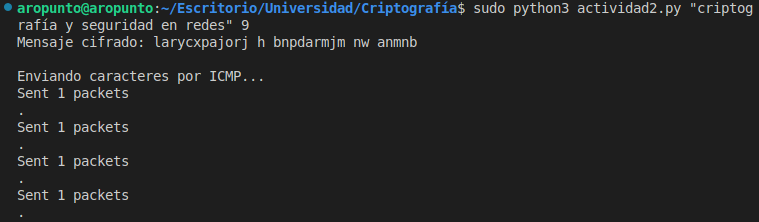
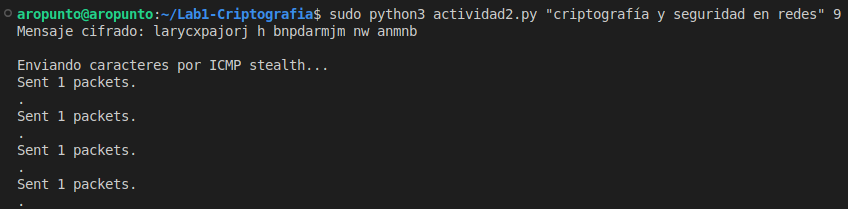
Arreglo de código e imagen

diff --git a/actividad2.py b/actividad2.py
@@ -1,29 +1,39 @@
 import sys
 import unicodedata
+import time
 from scapy.all import IP, ICMP, send
 
 def normalizar_texto(texto):
     texto = texto.lower()
     texto = unicodedata.normalize("NFD", texto)
-    texto = "".join(c for c in texto if unicodedata.category(c) != "Mn")
-    return texto
+    return "".join(c for c in texto if unicodedata.category(c) != "Mn")
 
 def cesar_cipher(texto, desplazamiento):
     resultado = ""
     for char in texto:
-        if char.isalpha():  # Solo letras
+        if char.isalpha():
             nueva_pos = (ord(char) - ord('a') + desplazamiento) % 26
             resultado += chr(nueva_pos + ord('a'))
         else:
-            resultado += char  # Mantener espacios
+            resultado += char
     return resultado
 
-def enviar_icmp_por_caracter(mensaje, destino="8.8.8.8"):
+def enviar_icmp_stealth(mensaje, destino="8.8.8.8"):
+    icmp_id = 0x1234   
+    seq = 0
     for char in mensaje:
-        paquete = IP(dst=destino)/ICMP()/char.encode()
+        payload = (
+            char.encode() +              # primer byte = char
+            b"\x00" * 8 +                # "8 primeros bytes" ICMP coherentes
+            bytes(range(0x10, 0x38))     # desde 0x10 a 0x37
+        )
+
+        paquete = IP(dst=destino)/ICMP(id=icmp_id, seq=seq)/payload
         send(paquete, verbose=0)
-        print(f"Sent 1 packets")
+        print(f"Sent 1 packets.")
         print(f".")
+        seq += 1
+        time.sleep(1)  # simular ping normal
 
 if __name__ == "__main__":
     if len(sys.argv) < 3:
@@ -37,6 +47,5 @@ if __name__ == "__main__":
     texto_normalizado = normalizar_texto(texto)
     cifrado = cesar_cipher(texto_normalizado, desplazamiento)
     print("Mensaje cifrado:", cifrado)
-
-    print("\nEnviando caracteres por ICMP...")
-    enviar_icmp_por_caracter(cifrado, destino)
+    print("\nEnviando caracteres por ICMP stealth...")
+    enviar_icmp_stealth(cifrado, destino)
